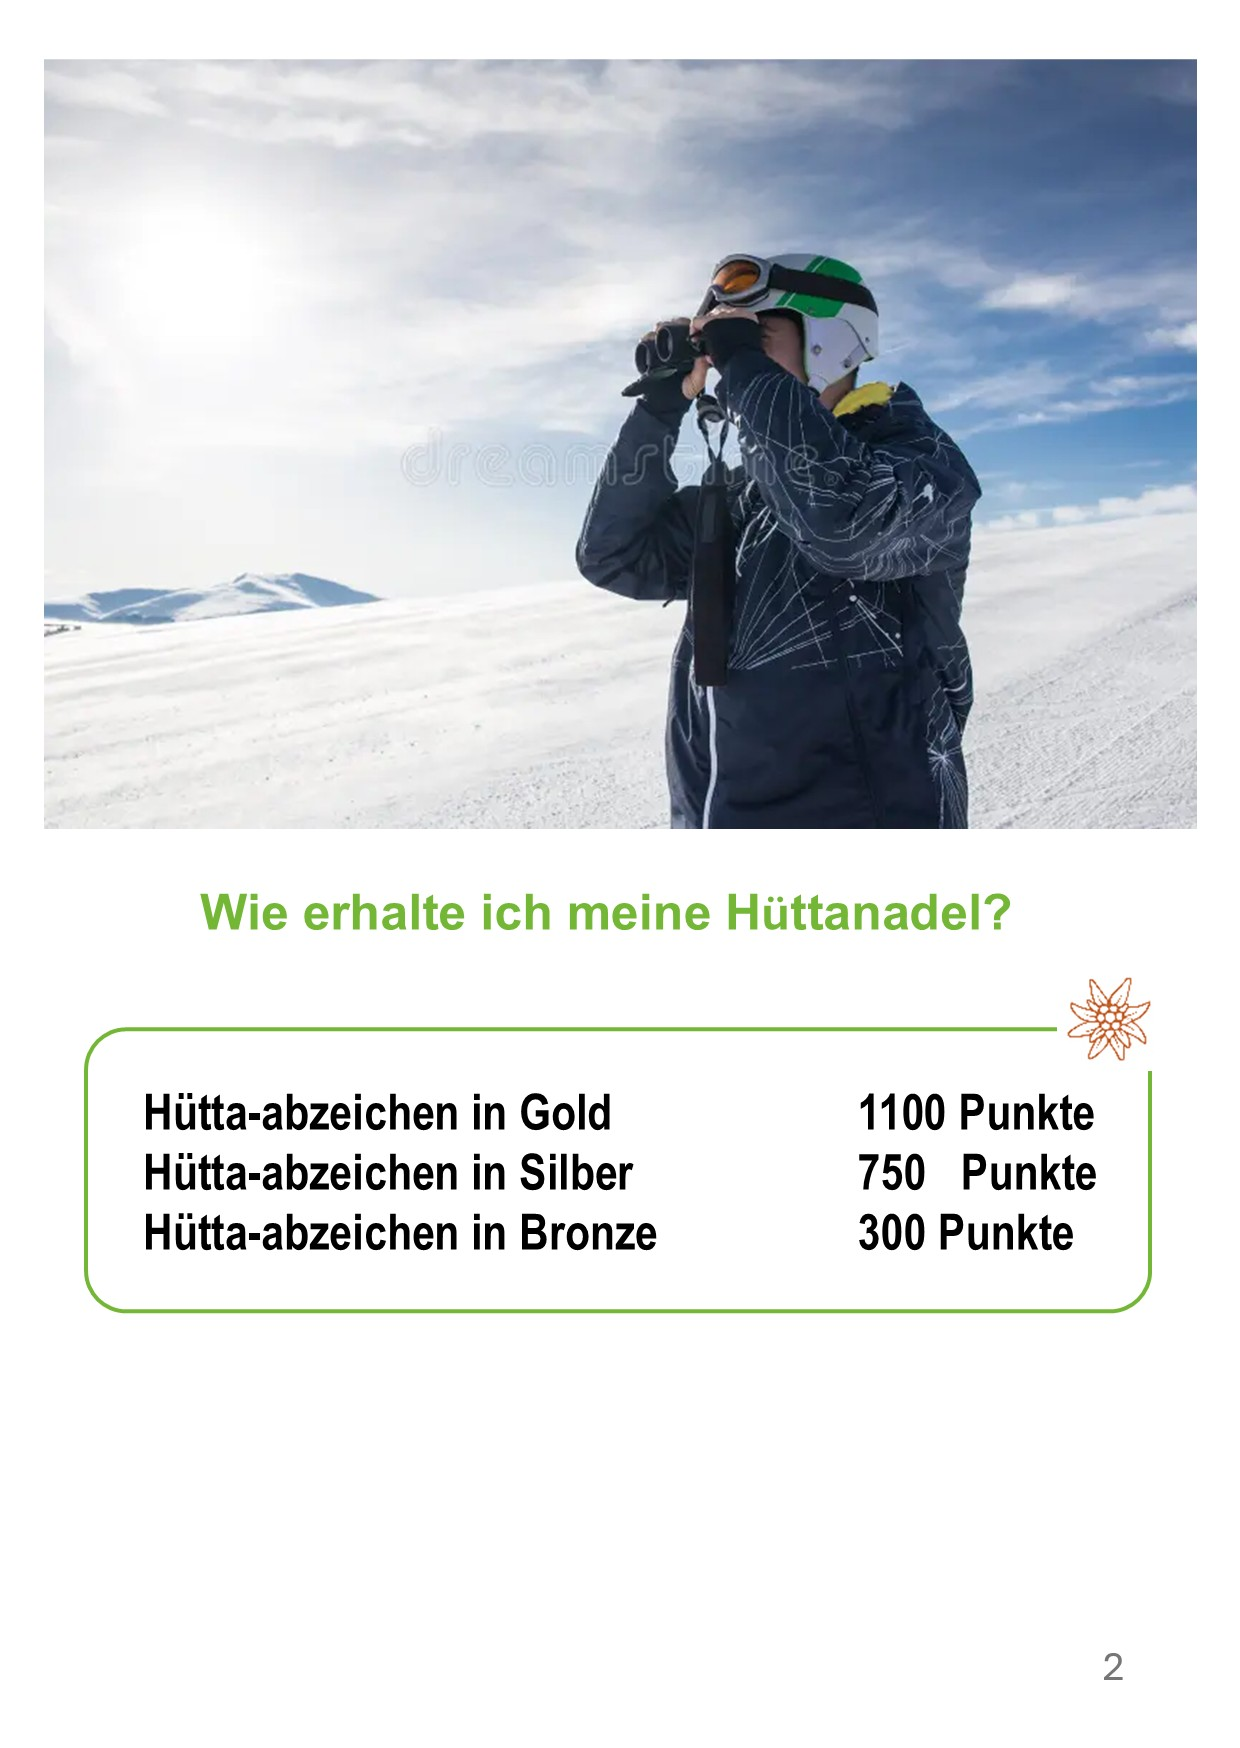
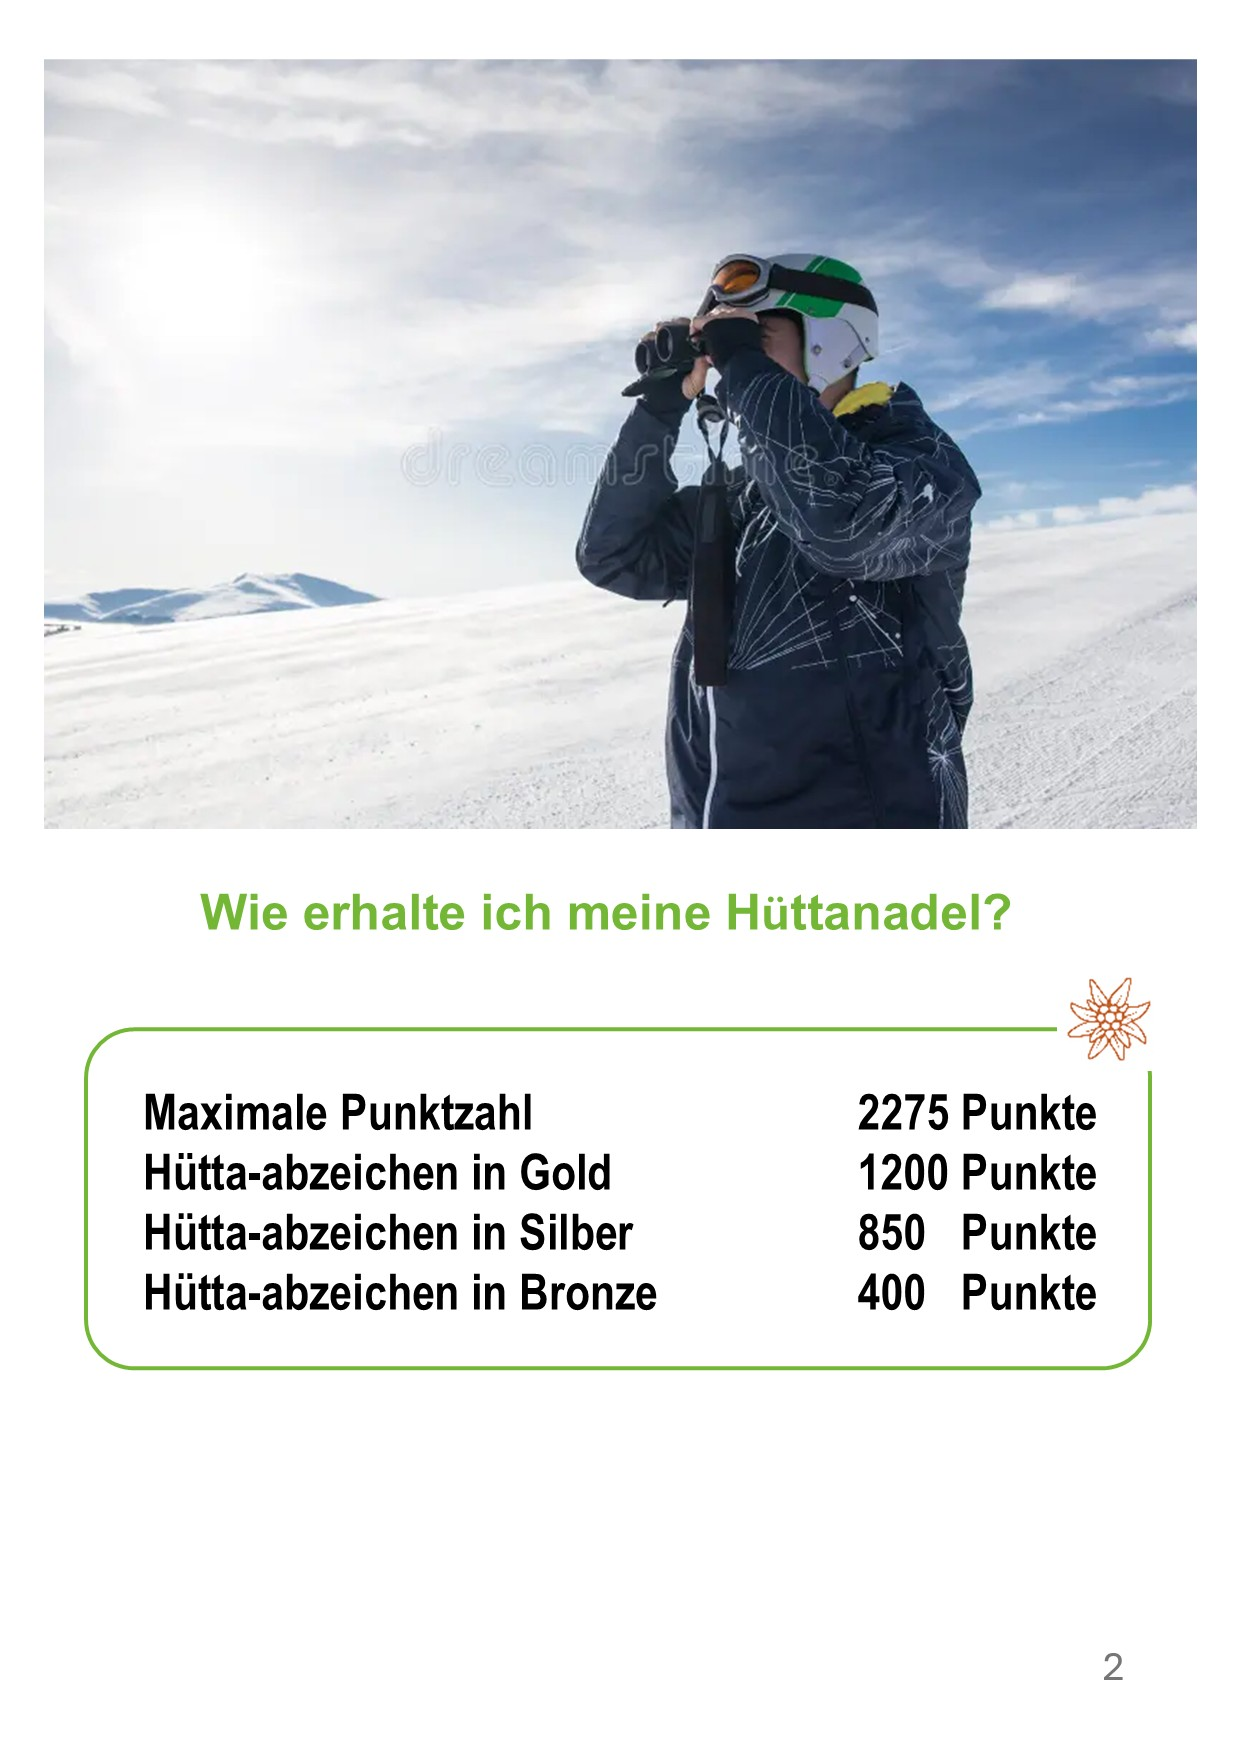
text fix and quick travel

Changed region(s): [[0.0613, 0.6178, 0.5516, 0.7723], [0.6742, 0.6178, 0.95, 0.8032], [0.0613, 0.587, 0.0919, 0.6178]]

diff --git a/script.js b/script.js
@@ -22,7 +22,7 @@ fetch('data.csv')
     const rows = csvText.trim().split('\n');
     data = rows.slice(1).map(row => row.split(','));
 	data = data.map(row => row.map(Number));
-    console.log(data);
+    //console.log(data);
 	
   })
   .catch(error => {
@@ -61,7 +61,6 @@ if (found) {
 }
  
 function updateImages() {
-  //x.innerHTML = current;
   for (let i = 0; i < pages.length; i++) {
 	// Make stamps visible
 	if (foundArray[i] === 1) {
@@ -88,11 +87,17 @@ function updateImages() {
 	tpa = points.map((v, i) => v * foundArray[i]);
 	totalpoints = tpa.reduce((total, num) => total + (Number(num) || 0), 0);
 	pointcounter.innerHTML = "Punkte: " + totalpoints;
+	if (totalpoints > 1200) {
+		pointcounter.style.color = "DarkGoldenRod";
+	} else {
+		pointcounter.style.color = "black"
+	}
 
   
   // Logger
-  console.log(totalpoints);
-  console.log(foundArray);
+  //x.innerHTML = current;
+  //console.log(totalpoints);
+  //console.log(foundArray);
 }
 
 function updateFound() {
@@ -116,6 +121,12 @@ function flipPrev(n) {
   }
 }
 
+function flipQuick(n) {
+	current = n;
+	updateImages();
+}
+
+
 // coordinate stuff
 function checkCoords(n) {
   document.getElementById("checkCoords").disabled = true;
@@ -128,9 +139,8 @@ function checkCoords(n) {
 	  document.getElementById("checkCoords").disabled = false;
     }
   } else {
-	  alert("Hütta al gevonden!")
+	  x.innerHTML = "Hütta is al gevonden!"
 	  document.getElementById("checkCoords").disabled = false;
-	  x.innerHTML = ""
   }
 }
   
@@ -200,12 +210,24 @@ function add1Data () {
 }
  
 // Button support
+	// Quick travel buttons
+document.getElementById('indexBtn').addEventListener('click', () => {flipQuick(4);});
+document.getElementById('brixenBtn').addEventListener('click', () => {flipQuick(6);});
+document.getElementById('sollBtn').addEventListener('click', () => {flipQuick(19);});
+document.getElementById('scheffauBtn').addEventListener('click', () => {flipQuick(23);});
+document.getElementById('ellmauBtn').addEventListener('click', () => {flipQuick(30);});
+document.getElementById('westendorfBtn').addEventListener('click', () => {flipQuick(34);});
+
+	// next and previous
 document.getElementById('nextBtn').addEventListener('click', () => { flipNext(current);});
 document.getElementById('prevBtn').addEventListener('click', () => { flipPrev(current);});
+	// check coords button
+document.getElementById('checkCoords').addEventListener('click', () => { checkCoords(current);});
+
 document.getElementById('delete').addEventListener('click', deleteData);
 document.getElementById('add').addEventListener('click', addData);
 document.getElementById('add1').addEventListener('click', add1Data);
-document.getElementById('checkCoords').addEventListener('click', () => { checkCoords(current);});
+
 
 // Touchscreen swipe support
 const container = document.querySelector('.book-container');

diff --git a/styles.css b/styles.css
@@ -5,7 +5,7 @@ body {
   flex-direction: column;
   align-items: center;
   margin: 0;
-  padding: 50px;
+  padding: 0px;
 }
 
 li {
@@ -17,6 +17,10 @@ button {
 	max-width: 50vw;
 	aspect-ratio: 1/0.1;
 	font-size: large;
+}
+
+#demo {
+  font-size: large;
 }
 
 .check-coords {
@@ -93,12 +97,31 @@ button {
 
 .pointcounter {
 	position: absolute;
-	font-size: 500%;
+	font-size: 6vh;
 	left: 8%;
-	bottom: 10%;
-	
+	bottom: 0.5%;
 }
 
+.nav-item {
+  display: flex;
+  list-style: none;
+  width: 95vw !important;
+  max-width: 100%;
+  min-height: 5%;
+  gap: 0.1rem;
+  box-sizing: border-box;
+}
+
+.nav-item button {
+  flex: 1 1 auto;
+  min-width: 0;    /* IMPORTANT: allows text to shrink */
+  white-space: nowrap;
+  overflow: hidden;
+  text-overflow: ellipsis; /* optional: "…" if too small */
+  padding: 0.01rem 0.1rem;
+  min-height: 1.25rem;
+  font-size: clamp(0.6rem, 3.44vw, 3rem);
+}
 
 /* Keyframes for stamping effect */
 @keyframes stampDown {

diff --git a/index.html b/index.html
@@ -9,7 +9,15 @@
 </head>
 <body>
   <p id="demo"></p>
-
+  
+  <li class = "nav-item">
+    <button id="indexBtn">Index</button>
+    <button id="brixenBtn">Brixen</button>
+	<button id="sollBtn">Söll</button>
+	<button id="scheffauBtn">Scheffau</button>
+	<button id="ellmauBtn">Ellmau</button>
+	<button id="westendorfBtn">W.stnd.rf</button>
+  </li>
 
   <div class="book-container">
     <div class="book" id="book">
@@ -28,7 +36,7 @@
   </li>
   
   <script src="appendimgs.js"></script>
-  <script src="script.js"></script>
+  <script src="script.js" defer></script>
   
 </body>
 </html>
